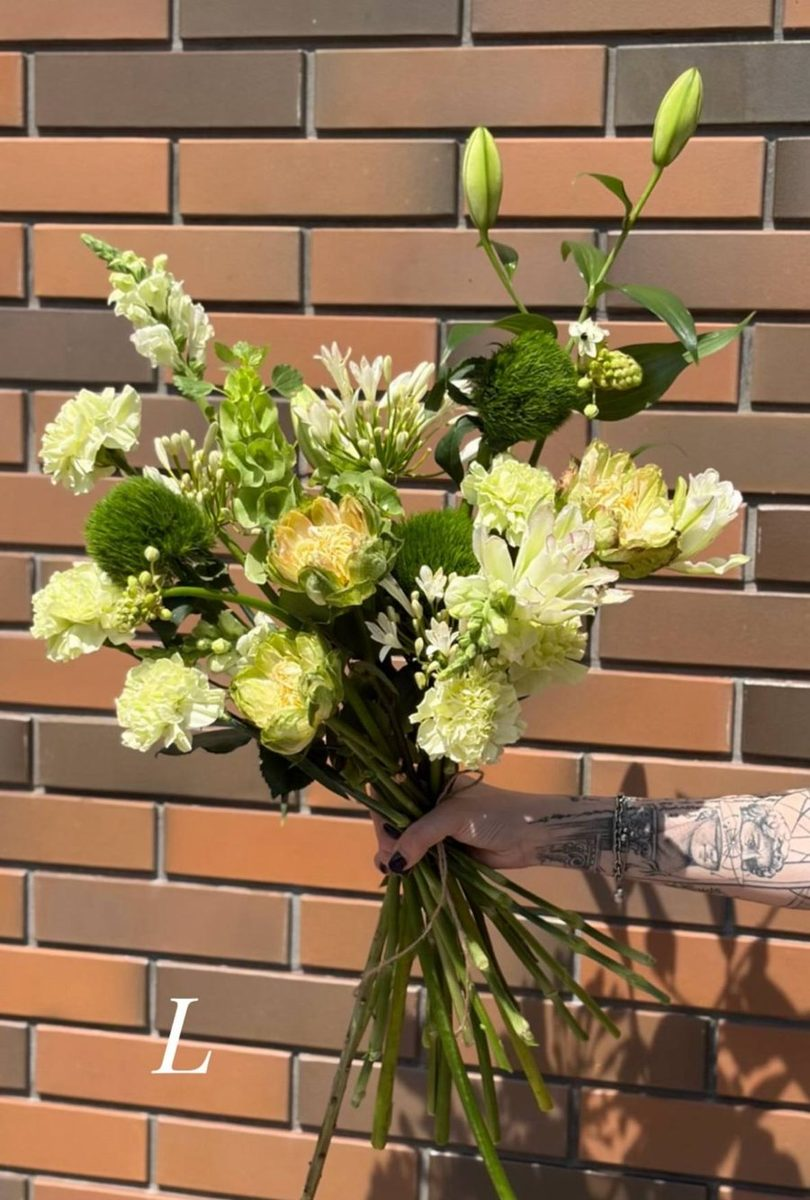
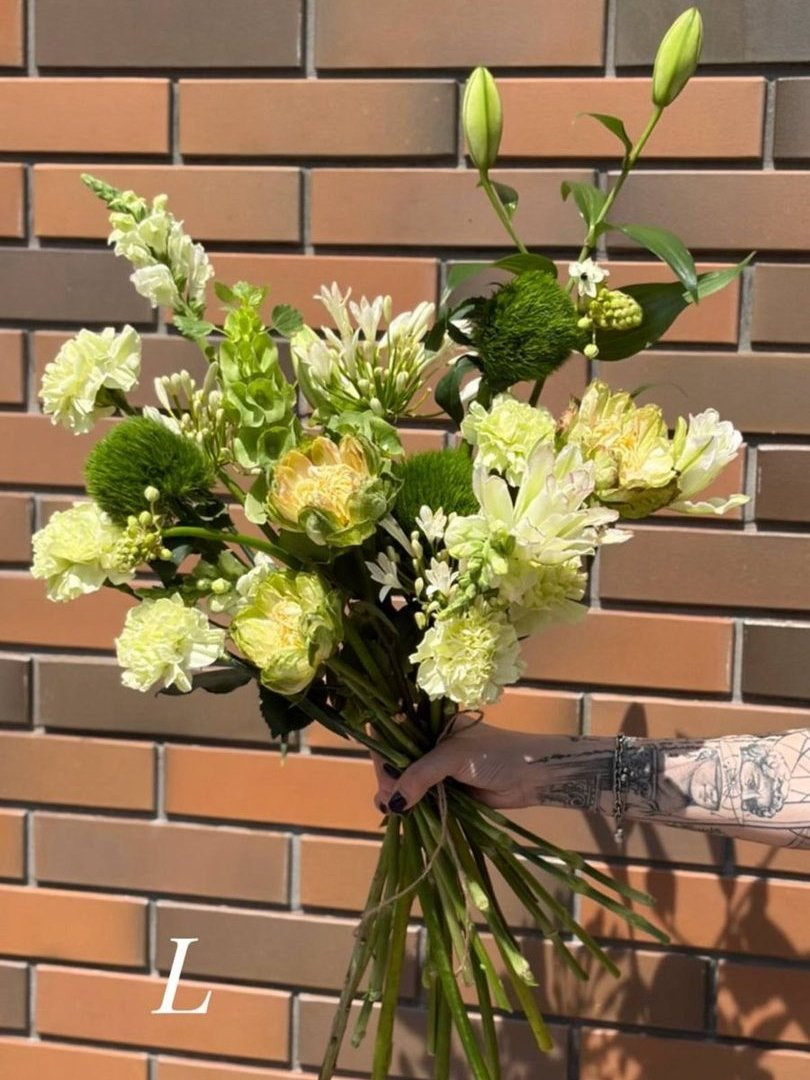
Проверка перед сдачей: кадрирование, подписи, мелочи
Все 166 товарных снимков приведены к 3:4 — раньше 24 из них были
других пропорций, и карточка резала им края: сухоцветам верх стеблей,
шарам хвосты, спрею и георгинам бока. Теперь не режет ничего нигде.

Адрес писался двумя способами — «Юбилейная 85Б» и «Юбилейная, 85Б».
Везде оставлен вариант с запятой.

Главное фото в карточке товара было без подписи (alt) — поиск и
экранный диктор его не видели. Теперь подпись = название букета,
у миниатюр галереи — номер кадра.

Ссылка «Корзина» в шапке имела высоту нажатия 19 px — мимо пальца.
Стало 41 px, вид не изменился.

Политике конфиденциальности добавлено превью для мессенджеров.

diff --git a/politika.html b/politika.html
@@ -6,6 +6,13 @@
 <title>Политика конфиденциальности — FOR YOU · Тольятти</title>
 <meta name="description" content="Как бутик цветов For You в Тольятти обрабатывает персональные данные покупателей: какие данные собираем, зачем, сколько храним и как их удалить.">
 <meta name="robots" content="noindex, follow">
+<meta property="og:type" content="website">
+<meta property="og:site_name" content="FOR YOU — бутик цветов">
+<meta property="og:title" content="Политика конфиденциальности — FOR YOU">
+<meta property="og:description" content="Как бутик цветов For You в Тольятти обрабатывает персональные данные покупателей.">
+<meta property="og:image" content="https://leragodzen.github.io/foryou-flowers/img/share.jpg">
+<meta property="og:url" content="https://leragodzen.github.io/foryou-flowers/politika.html">
+<meta name="twitter:card" content="summary_large_image">
 <link rel="canonical" href="https://leragodzen.github.io/foryou-flowers/politika.html">
 <meta name="theme-color" content="#A30B4E">
 <link rel="icon" href="favicon.png" type="image/png">
@@ -157,7 +164,7 @@ h1,h2,h3,.disp{font-family:var(--display); font-weight:400; letter-spacing:-.005
   transition:background .25s ease, color .25s ease;
 }
 .msg a:hover{background:var(--green); color:var(--cream);}
-.cart{display:inline-flex; align-items:center; gap:7px; font-size:12px; letter-spacing:.1em; text-transform:uppercase; font-weight:500;}
+.cart{display:inline-flex; align-items:center; gap:7px; font-size:12px; letter-spacing:.1em; text-transform:uppercase; font-weight:500; padding:11px 0; margin:-11px 0;} /* палец попадает: высота нажатия 41 px, вид прежний */
 .cart b{background:var(--green); color:var(--cream); font-weight:500; font-size:10px; width:19px; height:19px; border-radius:50%; display:grid; place-items:center;}
 /* ── меню-лента пилюль ─────────────────── */
 .nav{

diff --git a/index.html b/index.html
@@ -163,7 +163,7 @@ h1,h2,h3,.disp{font-family:var(--display); font-weight:400; letter-spacing:-.005
   transition:background .25s ease, color .25s ease;
 }
 .msg a:hover{background:var(--green); color:var(--cream);}
-.cart{display:inline-flex; align-items:center; gap:7px; font-size:12px; letter-spacing:.1em; text-transform:uppercase; font-weight:500;}
+.cart{display:inline-flex; align-items:center; gap:7px; font-size:12px; letter-spacing:.1em; text-transform:uppercase; font-weight:500; padding:11px 0; margin:-11px 0;} /* палец попадает: высота нажатия 41 px, вид прежний */
 .cart b{background:var(--green); color:var(--cream); font-weight:500; font-size:10px; width:19px; height:19px; border-radius:50%; display:grid; place-items:center;}
 /* ── меню-лента пилюль ─────────────────── */
 .nav{
@@ -1169,7 +1169,7 @@ h1,h2,h3,.disp{font-family:var(--display); font-weight:400; letter-spacing:-.005
     </div>
     <div>
       <p class="eyebrow">О бутике</p>
-      <h2>Юбилейная 85Б, секция 33 — напротив пешеходного перехода</h2>
+      <h2>Юбилейная, 85Б, секция 33 — напротив пешеходного перехода</h2>
       <p>Открылись осенью 2024-го рядом с Дворцом спорта «Волгарь». Цветы приезжают утром, и букет собирают в день заказа — поэтому наши букеты и славятся тем, что стоят неделями и долго радуют глаз.</p>
       <p>Заходите — сборка идёт прямо в зале, у вас на глазах: можно поменять оттенок, добавить цветок или выбрать упаковку по ходу. А можно просто рассказать про повод и человека, и флорист предложит состав сам.</p>
       <div class="facts">

diff --git a/tovar.html b/tovar.html
@@ -163,7 +163,7 @@ h1,h2,h3,.disp{font-family:var(--display); font-weight:400; letter-spacing:-.005
   transition:background .25s ease, color .25s ease;
 }
 .msg a:hover{background:var(--green); color:var(--cream);}
-.cart{display:inline-flex; align-items:center; gap:7px; font-size:12px; letter-spacing:.1em; text-transform:uppercase; font-weight:500;}
+.cart{display:inline-flex; align-items:center; gap:7px; font-size:12px; letter-spacing:.1em; text-transform:uppercase; font-weight:500; padding:11px 0; margin:-11px 0;} /* палец попадает: высота нажатия 41 px, вид прежний */
 .cart b{background:var(--green); color:var(--cream); font-weight:500; font-size:10px; width:19px; height:19px; border-radius:50%; display:grid; place-items:center;}
 /* ── меню-лента пилюль ─────────────────── */
 .nav{
@@ -1013,6 +1013,7 @@ h1,h2,h3,.disp{font-family:var(--display); font-weight:400; letter-spacing:-.005
 
   /* фото + галерея, если кадров несколько */
   var img = document.getElementById('pdImg');
+  img.alt = b.name;                       /* без подписи картинка немая для поиска и скринридера */
   img.src = b.img; img.alt = b.name;
   var shots = [b.img].concat(b.imgs || []);
   if(shots.length > 1){
@@ -1021,7 +1022,8 @@ h1,h2,h3,.disp{font-family:var(--display); font-weight:400; letter-spacing:-.005
     shots.forEach(function(src, i){
       var t = document.createElement('button');
       t.className = 'pd-shot' + (i ? '' : ' on');
-      t.innerHTML = '<img src="' + src + '" alt="" loading="lazy" decoding="async">';
+      t.innerHTML = '<img src="' + src + '" alt="' + b.name + ' — кадр ' + (i+1) + '" loading="lazy" decoding="async">';
+      t.setAttribute('aria-label', 'Показать кадр ' + (i+1));
       t.addEventListener('click', function(){
         img.src = src;
         [].forEach.call(strip.children, function(c){ c.classList.remove('on'); });

diff --git a/oformlenie.html b/oformlenie.html
@@ -414,7 +414,7 @@ a{color:inherit; text-decoration:none;}
     <a href="https://max.ru/u/f9LHodD0cOKTryK4E0NdNBpppHh4t3TgslzMEBYDInPjF-Ych3RrhpU14ys" target="_blank" rel="noopener" class="btn btn-line">MAX</a>
     <a href="tel:+79626144747" class="btn btn-line">+7 (962) 614-47-47</a>
   </div>
-  <p class="addr">Тольятти, Юбилейная 85Б, секция 33 · ежедневно 9:00 — 21:00</p>
+  <p class="addr">Тольятти, Юбилейная, 85Б, секция 33 · ежедневно 9:00 — 21:00</p>
 </section>
 
 
@@ -501,7 +501,7 @@ a{color:inherit; text-decoration:none;}
 
 
 <div class="mini-foot">
-  © 2026 For You · Бутик цветов · Тольятти, Юбилейная 85Б ·
+  © 2026 For You · Бутик цветов · Тольятти, Юбилейная, 85Б ·
   <a href="index.html">На главную</a> ·
   <a href="politika.html">Политика конфиденциальности</a>
 </div>

diff --git a/katalog.html b/katalog.html
@@ -163,7 +163,7 @@ h1,h2,h3,.disp{font-family:var(--display); font-weight:400; letter-spacing:-.005
   transition:background .25s ease, color .25s ease;
 }
 .msg a:hover{background:var(--green); color:var(--cream);}
-.cart{display:inline-flex; align-items:center; gap:7px; font-size:12px; letter-spacing:.1em; text-transform:uppercase; font-weight:500;}
+.cart{display:inline-flex; align-items:center; gap:7px; font-size:12px; letter-spacing:.1em; text-transform:uppercase; font-weight:500; padding:11px 0; margin:-11px 0;} /* палец попадает: высота нажатия 41 px, вид прежний */
 .cart b{background:var(--green); color:var(--cream); font-weight:500; font-size:10px; width:19px; height:19px; border-radius:50%; display:grid; place-items:center;}
 /* ── меню-лента пилюль ─────────────────── */
 .nav{

diff --git a/korzina.html b/korzina.html
@@ -164,7 +164,7 @@ h1,h2,h3,.disp{font-family:var(--display); font-weight:400; letter-spacing:-.005
   transition:background .25s ease, color .25s ease;
 }
 .msg a:hover{background:var(--green); color:var(--cream);}
-.cart{display:inline-flex; align-items:center; gap:7px; font-size:12px; letter-spacing:.1em; text-transform:uppercase; font-weight:500;}
+.cart{display:inline-flex; align-items:center; gap:7px; font-size:12px; letter-spacing:.1em; text-transform:uppercase; font-weight:500; padding:11px 0; margin:-11px 0;} /* палец попадает: высота нажатия 41 px, вид прежний */
 .cart b{background:var(--green); color:var(--cream); font-weight:500; font-size:10px; width:19px; height:19px; border-radius:50%; display:grid; place-items:center;}
 /* ── меню-лента пилюль ─────────────────── */
 .nav{

diff --git a/shary.html b/shary.html
@@ -162,7 +162,7 @@ h1,h2,h3,.disp{font-family:var(--display); font-weight:400; letter-spacing:-.005
   transition:background .25s ease, color .25s ease;
 }
 .msg a:hover{background:var(--green); color:var(--cream);}
-.cart{display:inline-flex; align-items:center; gap:7px; font-size:12px; letter-spacing:.1em; text-transform:uppercase; font-weight:500;}
+.cart{display:inline-flex; align-items:center; gap:7px; font-size:12px; letter-spacing:.1em; text-transform:uppercase; font-weight:500; padding:11px 0; margin:-11px 0;} /* палец попадает: высота нажатия 41 px, вид прежний */
 .cart b{background:var(--green); color:var(--cream); font-weight:500; font-size:10px; width:19px; height:19px; border-radius:50%; display:grid; place-items:center;}
 /* ── меню-лента пилюль ─────────────────── */
 .nav{

diff --git a/podpiska.html b/podpiska.html
@@ -319,7 +319,7 @@ a{color:inherit; text-decoration:none;}
       <a href="tel:+79626144747">+7 (962) 614-47-47</a>
     </div>
   </div>
-  <div class="footer-bot">© 2026 For You · Бутик цветов · Тольятти, Юбилейная 85Б · <a href="politika.html">Политика конфиденциальности</a></div>
+  <div class="footer-bot">© 2026 For You · Бутик цветов · Тольятти, Юбилейная, 85Б · <a href="politika.html">Политика конфиденциальности</a></div>
 </footer>
 
 

diff --git a/dvoih.html b/dvoih.html
@@ -385,7 +385,7 @@ html::-webkit-scrollbar{width:0; height:0; display:none;}
 
 
 <div class="mini-foot">
-  © 2026 For You · Бутик цветов · Тольятти, Юбилейная 85Б ·
+  © 2026 For You · Бутик цветов · Тольятти, Юбилейная, 85Б ·
   <a href="index.html">На главную</a> ·
   <a href="politika.html">Политика конфиденциальности</a>
 </div>
